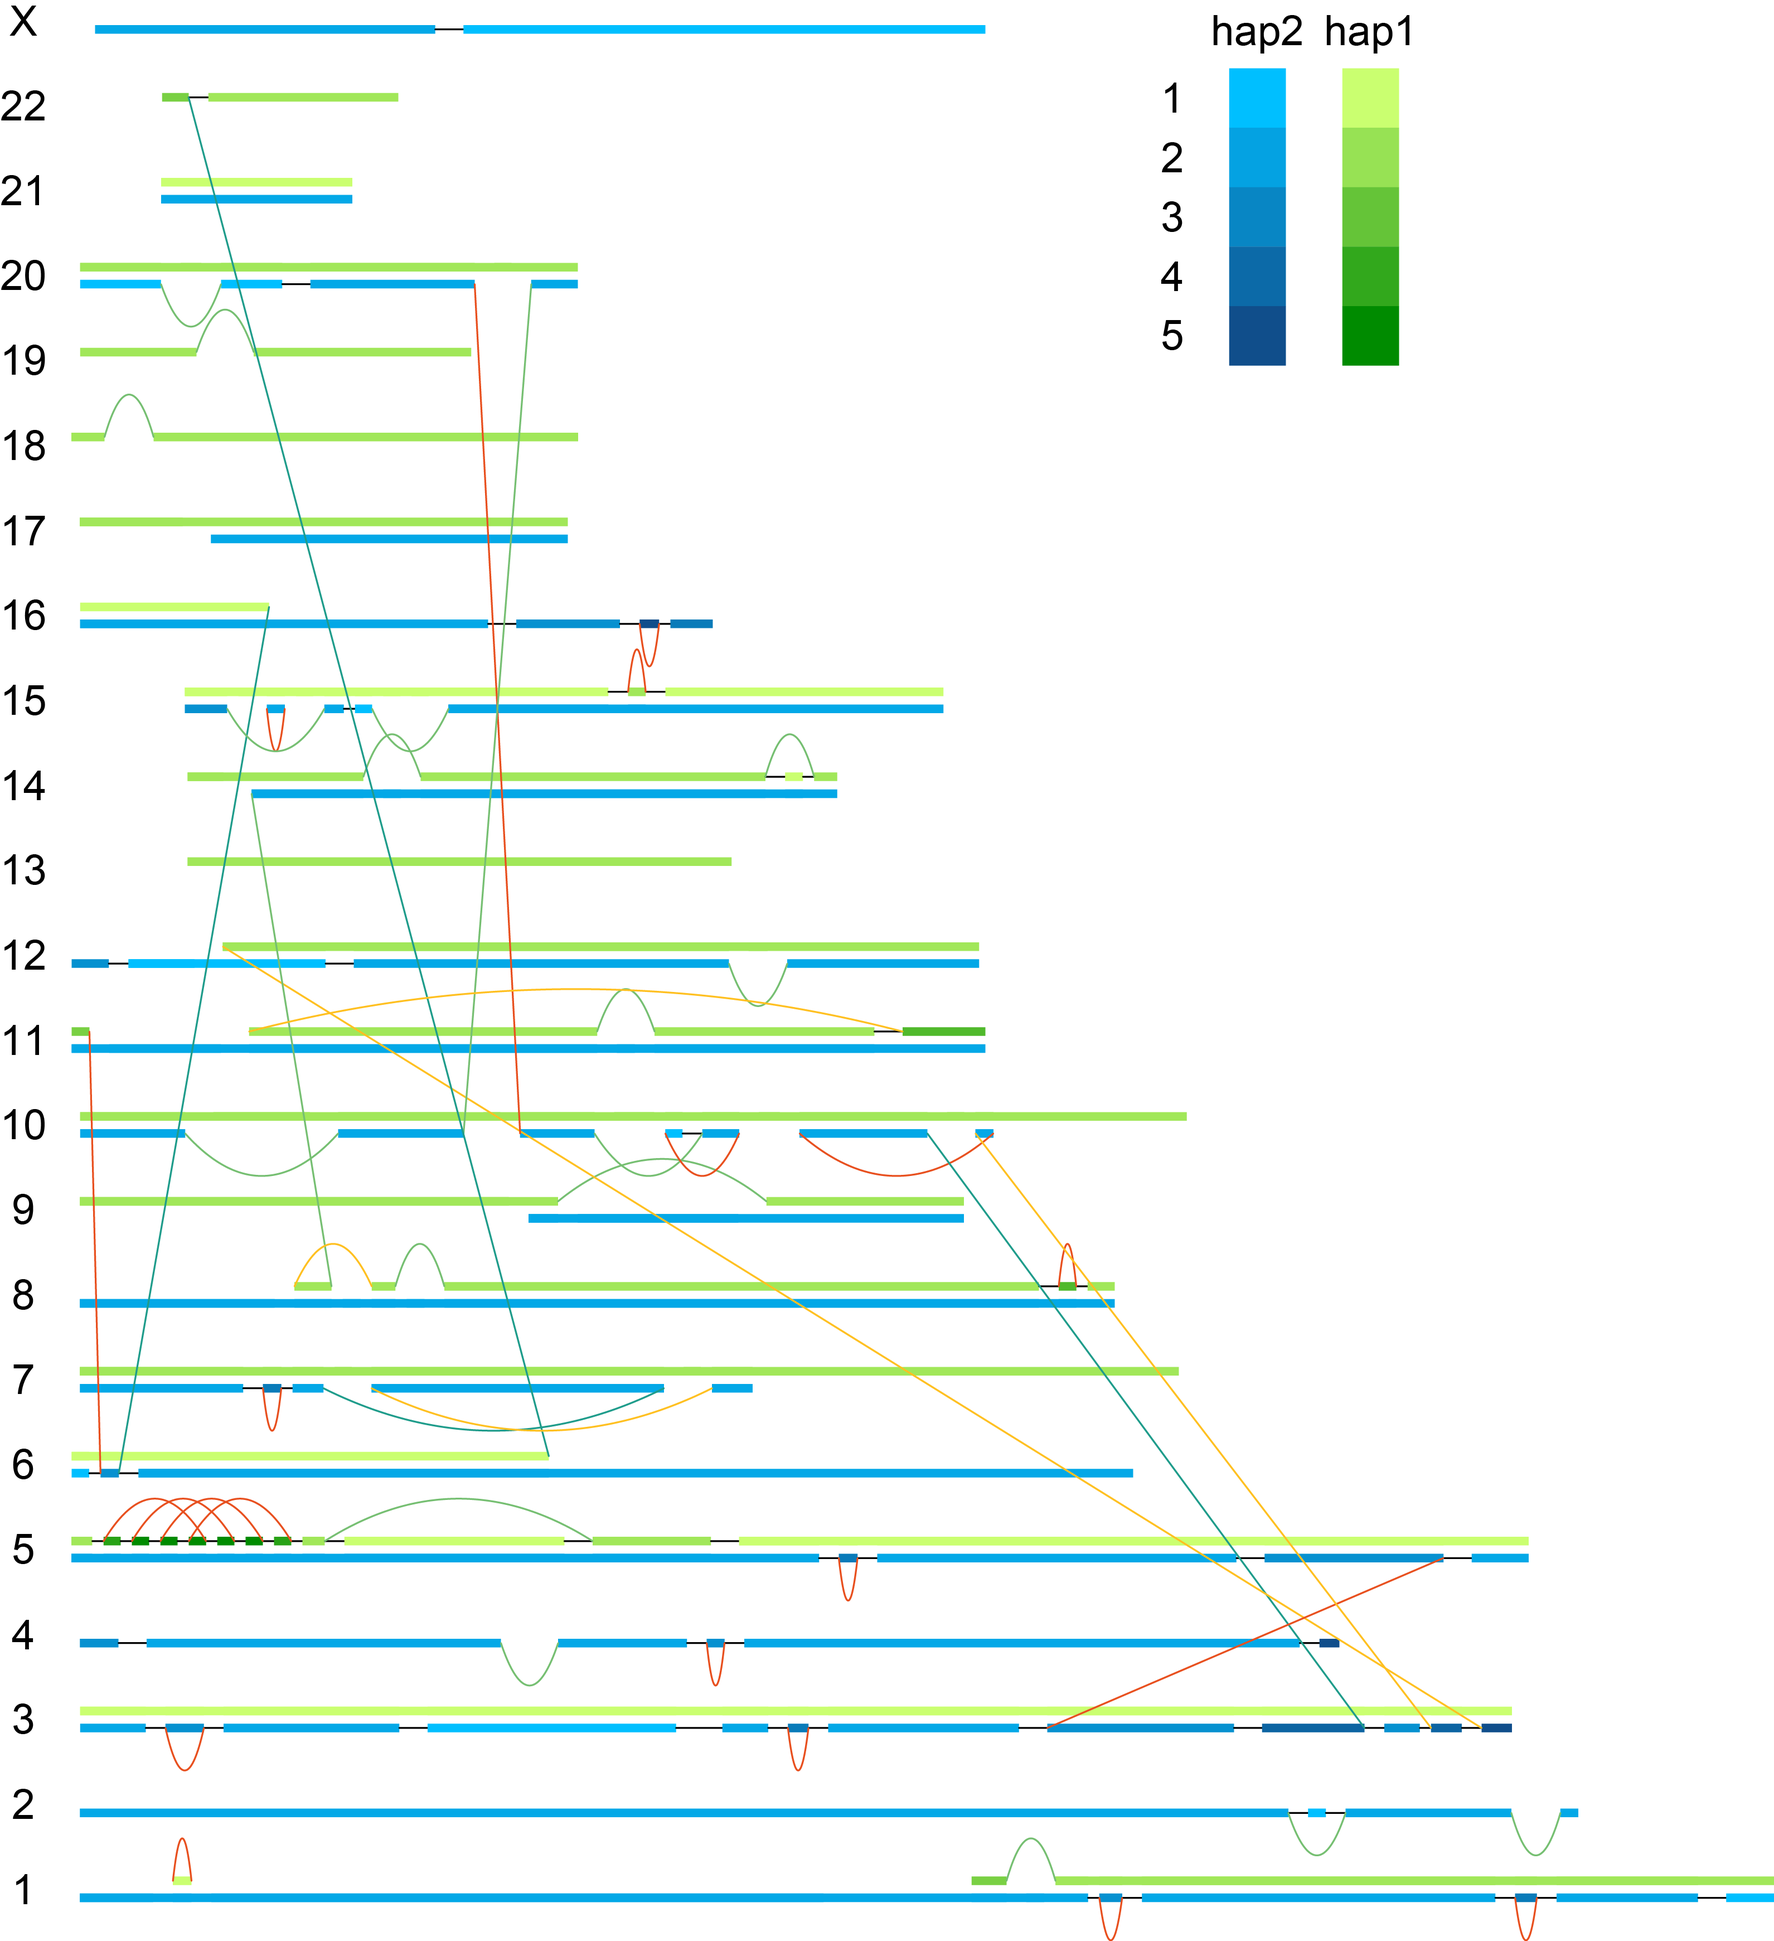
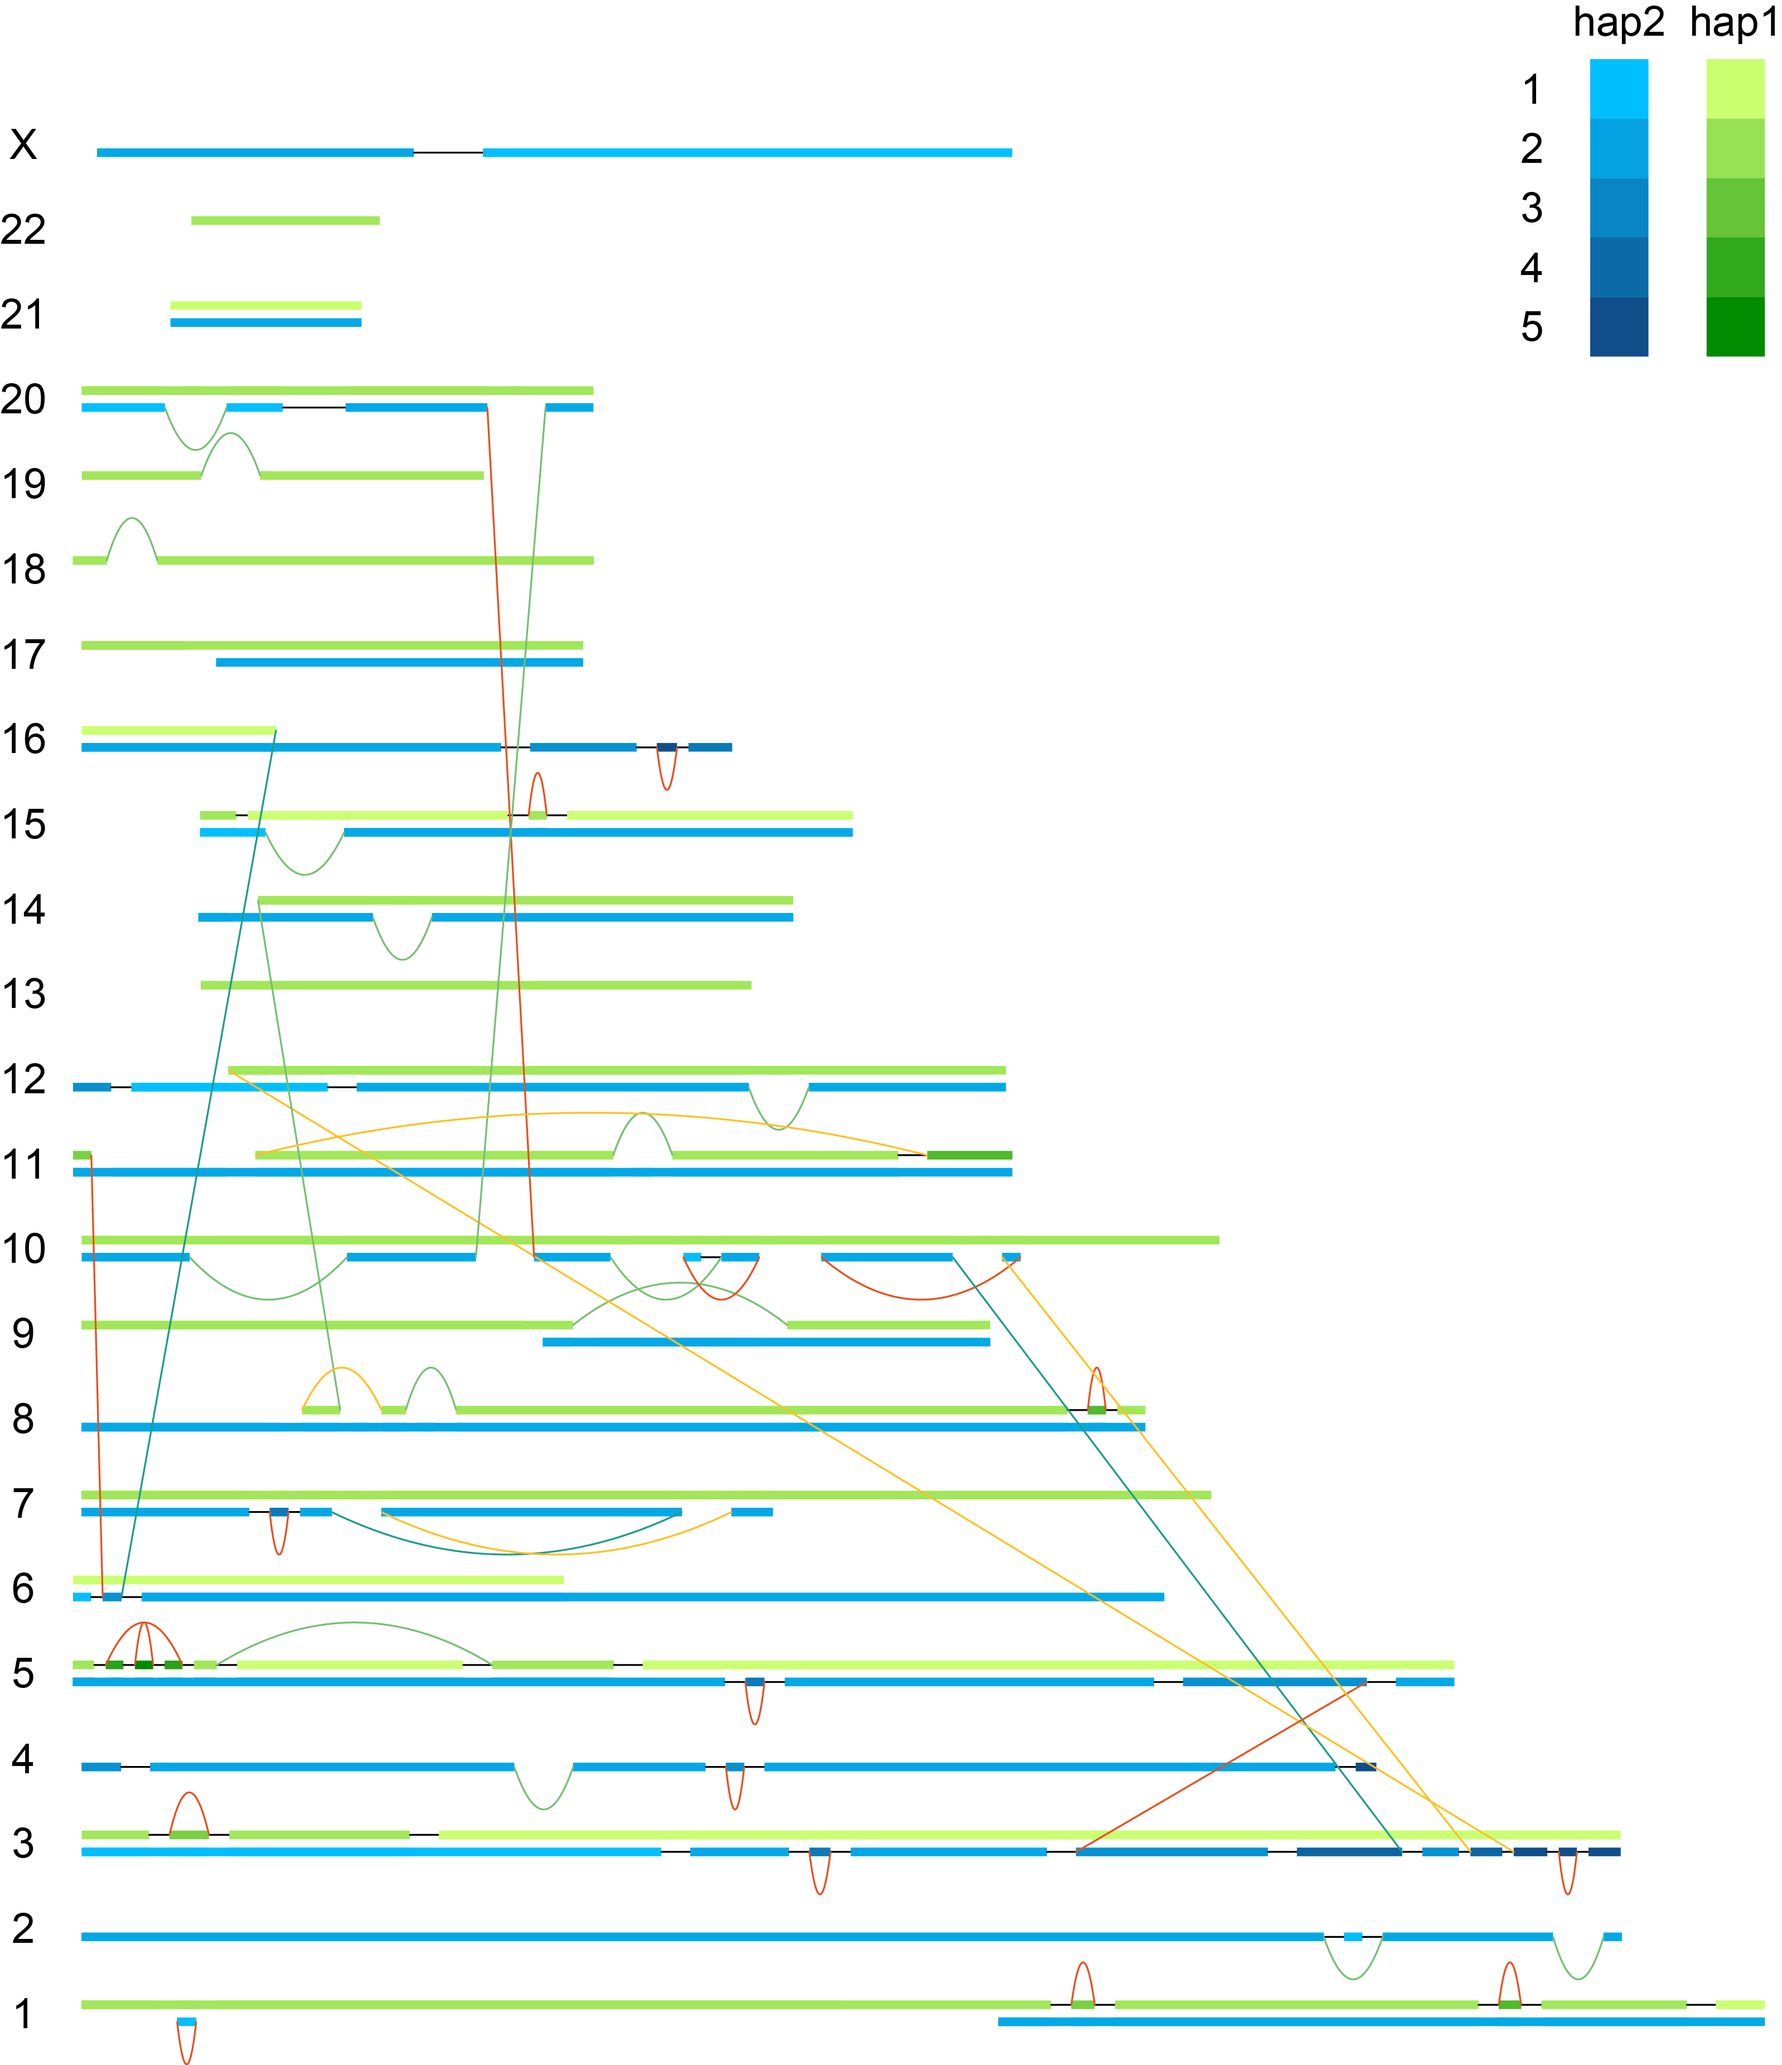
graph,simplification

diff --git a/README.md b/README.md
@@ -315,7 +315,7 @@ cd tutorial3
 ```
 - Running InfoGenomeR.
 ```
-## breakpoint graph construction (It takes a day during about 50 iterations)
+## breakpoint graph construction (It takes a day during about 30 iterations)
 breakpoint_graph -m total SVs cn_norm/ -i 16 -f 2000 -o total_job -t BRCA
 breakpoint_graph -m simplification -o total_job -i 16 -f 2000 total_job/SVs total_job/cn_norm/ -t BRCA
 ## allele graph construction
@@ -366,17 +366,6 @@ Rscript $InfoGenomeR_lib/etc/chromosomes_graph.R # It generates karyotypes.pdf
 ```
 <p align="center">
     <img width="1700" src="https://github.com/YeonghunL/InfoGenomeR/blob/master/doc/InfoGenomeR_output/euler.3.5.10.12.20/karyotypes.png">
-  </a>
-</p>
-
-```
-### chromosomes 6, 11, 16, and 22
-cd ../
-cd euler.6.11.16.22
-Rscript $InfoGenomeR_lib/etc/chromosomes_graph.R # It generates karyotypes.pdf
-```
-<p align="center">
-    <img width="750" src="https://github.com/YeonghunL/InfoGenomeR/blob/master/doc/InfoGenomeR_output/euler.6.11.16.22/karyotypes.png">
   </a>
 </p>
 
